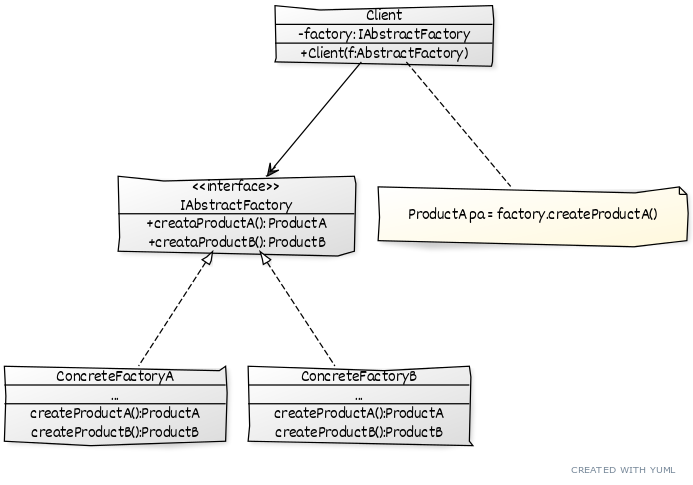
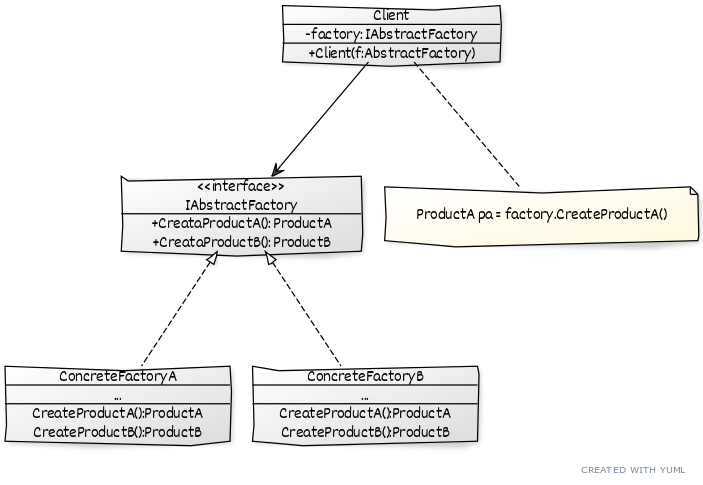
Rozwinieto rozdzial poswiecony wzorcom kreacyjnym.
commit e98ff40fe3f206160289f6fec02c2c1c38195009
Author: Jakub Gluszek <j.gluszek@gmail.com>
Date:   Thu Sep 2 19:28:45 2021 +0200

    Poprawiono literowki.

commit f341a25330d88a00d7e9ca7e16d2e02c0e7ce177
Author: Jakub Gluszek <j.gluszek@gmail.com>
Date:   Tue Aug 10 17:14:22 2021 +0200

    Dodano zadania do wykonania dla wzorca fabryki abstrakcyjnej i budowniczego.

commit a253da0dc4687832622722c0ccfa37ff2d7bc8cb
Author: Jakub Gluszek <j.gluszek@gmail.com>
Date:   Sat Aug 7 17:32:23 2021 +0200

    Dodano przyklad implementacji wzorca Builder.

diff --git a/tex/Lab2.tex b/tex/Lab2.tex
@@ -1,14 +1,14 @@
 \section{Wzorce projektowe (1) - konstrukcyjne}
-\url{https://softwareengineering.stackexchange.com/questions/365119/is-using-new-in-the-constructor-always-bad}
 Wzorce kreacyjne pozwalają na tworzenie obiektów w sposób zwiększający elastyczność. Zamiast tworzyć obiekty w wielu miejscach w programie, zadaniem konstrukcji nowych instancji można obciążyć osobne klasy. Użycie słowa kluczowego \texttt{new} narusza omawianą wcześniej zasadę odwracania zależności, powodując trudności z testowaniem kodu i zmniejszając jego elastyczność. 
+%\url{https://softwareengineering.stackexchange.com/questions/365119/is-using-new-in-the-constructor-always-bad}
 
 \subsection{Fabryka abstrakcyjna (ang. abstract factory)}
-Fabryka abstrakcyjna jest wzorcem projektowym, który przenosi proces tworzenia obiektów (często ze sobą w jakiś sposób powiązany) do osobnej klasy implementującej interfejs zawierający listę metod tworzących dane obiekty. Co więcej tworzone przez fabryki instancje również powinny posiadać zgodne interfejsy.
+Fabryka abstrakcyjna jest wzorcem projektowym, który przenosi proces tworzenia obiektów (często ze sobą w jakiś sposób powiązany) do osobnej klasy implementującej interfejs zawierający metody tworzące dane obiekty. Tworzone przez fabryki instancje powinny posiadać zgodne interfejsy.
 
 Klient może posiadać konstruktor, który jako parametr przyjmie obiekt implementujący interfejs abstrakcyjny. Wewnątrz konstruktora klient wywołując odpowiednie metody może tworzyć konkretne obiekty bez znajomości ich szczegółowej implementacji. Przekazując inny obiekt fabryki abstrakcyjnej możliwa jest łatwa zmiana wykorzystywanych przez klienta obiektów.  
 
 Przykład:
-Aplikacja wykorzystująca interfejs graficzny mogłaby przyjmować jako argument obiekty fabryki implementujące interfejs \texttt{IGuiFactory}. Interfejs ten mógłby definiować metody tworzenia poszczególnych elementów graficznych np. \texttt{createButton()}, \texttt{createListBox()}, \texttt{createProgressBar()} itp. Następnie w zależności od systemu operacyjnego można by stworzyć obiekty fabryk \texttt{WindowsFactory} oraz \texttt{UnixFactory}, oba implementujące określony wcześniej interfejs. Aplikacja posiadające logikę rysująca okno użytkownika nie musi w takim przypadku nawet wiedzieć z jakim systemem ma do czynienia, jest od niego niezależna. Może wywoływać metody tworzące kontrolki UI za pomocą abstrakcyjnego interfejsu \texttt{IGuiFactory}. Wybór konkretnej fabryki mógłby być określany w momencie uruchamiania się aplikacji.
+Aplikacja wykorzystująca interfejs graficzny mogłaby przyjmować jako argument obiekty fabryki implementujące interfejs \texttt{IGuiFactory}. Interfejs ten mógłby definiować metody tworzenia poszczególnych elementów graficznych np. \texttt{CreateButton()}, \texttt{CreateListBox()}, \texttt{CreateProgressBar()} itp. Następnie w zależności od systemu operacyjnego można by stworzyć obiekty fabryk \texttt{WindowsFactory} oraz \texttt{UnixFactory}, oba implementujące określony wcześniej interfejs. Aplikacja posiadające logikę rysująca okno użytkownika nie musi w takim przypadku nawet wiedzieć z jakim systemem ma do czynienia, jest od niego niezależna. Może wywoływać metody tworzące kontrolki UI za pomocą abstrakcyjnego interfejsu \texttt{IGuiFactory}. Wybór konkretnej fabryki mógłby być określany w momencie uruchamiania się aplikacji.
 
 
 
@@ -19,24 +19,114 @@ Aplikacja wykorzystująca interfejs graficzny mogłaby przyjmować jako argument
 	\label{lab2/fig/AbstractFactoryUml}
 \end{figure}
 %[Client]->[IAbstractFactory]
-%[Client]-[note: ProductA pa = factory.createProductA(){bg:cornsilk}]
+%[Client]-[note: ProductA pa = factory.CreateProductA(){bg:cornsilk}]
 %[IAbstractFactory]^-.-[ConcreteFactoryA]
 %[IAbstractFactory]^-.-[ConcreteFactoryB]
 %
-%[≪interface≫;IAbstractFactory|+creataProductA(): ProductA;+creataProductB(): ProductB;]
+%[≪interface≫;IAbstractFactory|+CreataProductA(): ProductA;+CreataProductB(): ProductB;]
 %[Client|-factory: IAbstractFactory|+Client(f:AbstractFactory);]
-%[ConcreteFactoryA|...|createProductA():ProductA;createProductB():ProductB]
-%[ConcreteFactoryB|...|createProductA():ProductA;createProductB():ProductB]
+%[ConcreteFactoryA|...|CreateProductA():ProductA;CreateProductB():ProductB]
+%[ConcreteFactoryB|...|CreateProductA():ProductA;CreateProductB():ProductB]
 
+%//TODO: https://github.com/ninject/Ninject.Extensions.Factory vs https://docs.autofac.org/en/latest/advanced/delegate-factories.html
+
+\subsubsection{Zadanie 1}
+
+Utwórz nowy projekt aplikacji konsolowej .NET 5.0. W osobnych plikach stwórz trzy interfejsy: \texttt{IButton}, \texttt{ICheckbox} oraz \texttt{IGuiFactory}. Pierwsze dwa niech posiadają jedną metodę \texttt{void Draw()}, natomiast interfejs fabryki dwie metody:\texttt{IButton CreateButton()} oraz \texttt{ICheckbox CreateCheckBox()}.
+
+Umieść w projekcie dwa foldery \texttt{Macintosh} oraz \texttt{Windows}. Wewnątrz tych folderów dodaj implementacje stworzonych przed chwilą interfejsów. Metodę \texttt{Draw} zaimplementuj tak, aby wypisywała na ekranie konsoli komunikat symulujący, że kontrolka została narysowana np.:
+\begin{lstlisting}
+internal class MacButton : IButton
+{
+	public void Draw() => Console.WriteLine("Macintosh button has been drawn");
+}
+\end{lstlisting}
+
+%Tip: Ustawiając kursor na nazwę interfejsu i klikając Alt+Enter możesz uruchomić narzędzie refaktoryzacyjne i wybrać opcję \texttt{Implement interface}. Visual Studio automatycznie doda do klasy metody wymagające implementacji.
+
+Po napisaniu analogicznych metod dla pozostałych kontrolek, utwórz po jednej klasie fabryki w każdym z folderów. Klasa fabryki powinna zwracać instancję klasy odpowiadającej danej kontrolce np.:
+\begin{lstlisting}
+public class MacFactory : IGuiFactory
+{
+	public IButton CreateButton() => new MacButton();
+	public ICheckbox CreateCheckBox() => new MacCheckbox();
+}
+\end{lstlisting}
+
+
+Teraz w katalogu głównym utwórz klasę \texttt{UserInterface}, która będzie posiadała prywatne pole typu \texttt{IGuiFactory}. Przekaż do obiektu instancję klasy \texttt{IGuiFactory} i przypisz ją do utworzonego przed chwilą prywatnego pola. Napisz metodę \texttt{DrawWindow}, w której pobierzesz w fabryki instancję klas implementujących \texttt{IButton} oraz \texttt{ICheckbox} i wywołasz metodę \texttt{Draw} dla każdego z nich.
+
+W metodzie \texttt{Main} sprawdź działanie wzorca fabryki abstrakcyjnej:
+\begin{lstlisting}
+class Program
+{
+	static void Main(string[] args)
+	{
+		// Based on configuration file one can choose the specific factory over another one
+		var factoryA = new MacFactory();
+		var factoryB = new WinFactory();
+		
+		var uiA = new UserInterface(factoryA);
+		uiA.DrawWindow();
+		
+		var uiB = new UserInterface(factoryB);
+		uiB.DrawWindow();
+	}
+}
+\end{lstlisting}
+
+\subsubsection{Inne wzorce fabryk}
+%https://refactoring.guru/design-patterns/factory-comparison
+Fabryka jest ogólnym terminem, który jest używany w stosunku do metod i klas, które tworzą obiekty. Podczas laboratoriów został omówiony wzorzec fabryki abstrakcyjnej, który służy do tworzenia całych rodzin podobnych albo powiązanych ze sobą obiektów bez precyzowania konkretnych klas. Jeśli jednak program nie wymaga tworzenia takich rodzin najprawdopodobniej fabryka abstrakcyjna nie jest konieczna. 
+
+Inną prostą fabryką może być klasa, która posiada metodę wytwórczą, z wyrażeniem \texttt{switch-case} które analizuje przekazywany do niej parametr i tworzy odpowiednią instancję konkretnej klasy. Często jest to pojedyncza metoda w pojedynczej klasie. Z czasem kiedy liczba tworzonych obiektów rośnie może ona się przekształcić z metodę fabrykującą. 
+%\begin{lstlisting}
+%class UserFactory {
+%	public static function create($type) {
+%		switch ($type) {
+%			case 'user': return new User();
+%			case 'customer': return new Customer();
+%			case 'admin': return new Admin();
+%			default:
+%			throw new Exception('Wrong user type passed.');
+%		}
+%	}
+%}
+%\end{lstlisting}
+
+Metoda fabrykująca udostępnia interfejs do tworzenia obiektów, ale pozwala klasom pochodnym zmienić typ tworzonego obiektu. W klasie bazowej umieszczona jest pewna funkcjonalność, do klas pochodnych jest przeniesiony jedynie proces tworzenia obiektów. Jest to szczególny przypadek metody szablonowej.
+%\begin{lstlisting}
+%abstract class Department {
+%	public abstract function createEmployee($id);
+%	
+%	public function fire($id) {
+%		$employee = $this->createEmployee($id);
+%		$employee->paySalary();
+%		$employee->dismiss();
+%	}
+%}
+%
+%class ITDepartment extends Department {
+%	public function createEmployee($id) {
+%		return new Programmer($id);
+%	}
+%}
+%
+%class AccountingDepartment extends Department {
+%	public function createEmployee($id) {
+%		return new Accountant($id);
+%	}
+%}	
+%\end{lstlisting}
 
 \subsection{Budowniczny (ang. builder)}
-Budowniczy jest wzorcem, który może być wykorzystany do tworzenia złożonego obiektu krok po kroku. Czasami istnieje pokusa stworzenia konstruktora przyjmującego dużą liczbę argumentów np. dana klasa korzysta z wielu zależności albo niektóre jej cechy mogą być parametryzowane. Część z tych argumentów może w ogóle nie być konieczna. Budowniczy przenosi proces tworzenia takiej instancji do osobnego obiektu. 
+Budowniczy jest wzorcem, który może być wykorzystany do tworzenia złożonego obiektu krok po kroku. Czasami istnieje pokusa stworzenia konstruktora przyjmującego dużą liczbę argumentów np. dana klasa korzysta z wielu zależności albo niektóre jej cechy mogą być parametryzowane. Część z tych argumentów może być opcjonalna. Budowniczy przenosi proces tworzenia takiej instancji do osobnego obiektu. 
 
-Czynności wywoływania poszczególnych metod można przenieść do osobnego obiektu kierownika (ang. director), który będzie przyjmował jako argument konstruktora obiekt budowniczego i wywoływał metody interfejsu \texttt{IBuilder}.
+Czynności wywoływania poszczególnych metod można przenieść do obiektu kierownika (ang. director), który będzie przyjmował jako argument konstruktora obiekt budowniczego i wywoływał metody interfejsu \texttt{IBuilder}. Obiekt kierownika jest opcjonalny, klient może samemu tworzyć instancję budowanego typu. 
 
 Konkretni budowniczowie powinni dostarczyć swoje własne metody zwracania wyników procesu budowania obiektu. Różni budowniczowie mogą zwracać zupełnie inne typy dlatego tego procesu często nie da się umieścić w interfejsie \texttt{IBuilder} (przynajmniej w przypadku języków programowania, które są silnie typowane). 
  
-Wzorzec budowniczy często wspiera tzw. płynne interfejsy (ang. Fluent Interface). Z przykładem użycia tego mechanizmu można się spotkać w zapytaniach LINQ, gdzie zamiast wywoływać kolejne metody progresywnie (w kolejnych wierszach), można je wywoływać kaskadowo po kropce.
+Wzorzec budowniczy często wykorzystuje tzw. płynne interfejsy (ang. Fluent Interface). Polega on na łańcuchowym połączeniu metod. Pozwala na zwiększenie czytelności kodu. Kaskadowe połączenie metod realizuje się zwracając w metodzie instancję własnej klasy za pomocą słowa kluczowego \texttt{this}. Z przykładem użycia tego mechanizmu można się spotkać w zapytaniach LINQ\ref{lab2/lst/fluentInterfaceLinq}, gdzie zamiast wywoływać kolejne metody progresywnie (w kolejnych wierszach), można je wywoływać kaskadowo po symbolu kropki. 
 
 \begin{lstlisting}[caption={Wykorzystanie płynnych interfejsów w zapytania LINQ}, label={lab2/lst/fluentInterfaceLinq}]
 var translations = new Dictionary<string, string>
@@ -50,14 +140,156 @@ var translations = new Dictionary<string, string>
 // Find translations for English words containing the letter "a",
 // sorted by length and displayed in uppercase
 IEnumerable<string> query = translations
-.Where   (t => t.Key.Contains("a"))
-.OrderBy (t => t.Value.Length)
-.Select  (t => t.Value.ToUpper());
+.Where(t => t.Key.Contains("a"))
+.OrderBy(t => t.Value.Length)
+.Select(t => t.Value.ToUpper());
 
 // The same query constructed progressively:
-var filtered   = translations.Where (t => t.Key.Contains("a"));
-var sorted     = filtered.OrderBy   (t => t.Value.Length);
-var finalQuery = sorted.Select      (t => t.Value.ToUpper());
+var filtered = translations.Where(t => t.Key.Contains("a"));
+var sorted  = filtered.OrderBy(t => t.Value.Length);
+var finalQuery = sorted.Select(t => t.Value.ToUpper());
 \end{lstlisting}
 
-W przeciwieństwie do wzorca fabryki abstrakcyjnej, która tworzy obiekty (często ze sobą powiązane) w jednym kroku, budowniczy tworzy jeden złożony obiekt krok po kroku.
+W przeciwieństwie do wzorca fabryki abstrakcyjnej, która tworzy obiekty (często ze sobą powiązane) w~jednym kroku, budowniczy tworzy jeden złożony obiekt krok po kroku.
+
+W klasie \texttt{Car} dodaj właściwości ze słowem kluczowym \texttt{init}\ref{lab2/lst/immutableProperties}. Słowo kluczowe \texttt{init} pojawiło się w C\# 9.0 i stanowi ułatwienie w tworzeniu obiektów niemutowalnych (niezmiennych). Wcześniej konieczne było wykorzystywanie słowa kluczowego \texttt{readonly} i tworzenie obszernych konstruktorów.
+\begin{lstlisting}[caption={Inicjalizacja obiektu klasy \texttt{Car} ze niemutowalnymi właściwościami}, label={lab2/lst/immutableProperties}]
+public string Manual { get; init;}
+public string Engine { get; init; }
+public string Seats { get; init; }
+public string TripComputer { get; init; }
+public string Gps { get; init; }
+\end{lstlisting}
+Ponieważ w przypadku chęci utworzenia nowego obiektu, który będzie np. posiadał inna wartość tylko jednej właściwości konieczne jest tworzenie nowego obiektu i ponowne przypisanie za pomoc listy inicjalizacji wszystkich właściwości pojawiły się w C\# również rekordy. Wykorzystując rekordy można przy przypisywaniu rekordu do innego rekordu użyć słowa kluczowego \texttt{with} i zmienić tylko tę jedną właściwość na której nam zależy, reszta zostanie automatycznie przepisana. Dodatkowo w przypadku rekordów porównywanie dwóch obiektów przebiega pole po polu. Kompilator automatycznie tworzy konstruktor kopiujący. Rekord wraz z~konstruktorem oraz destruktorem tworzy się za pomocą poniższego zapisu:
+\begin{lstlisting}
+public record Friend(string FirstName,string MiddleName, string LastName);
+\end{lstlisting}
+Obiekt typu \texttt{Friend} będzie posiadał właściwości takie jak argumenty rekordu.
+Przykład stosowanie rekordów:
+\begin{lstlisting}
+using System;
+namespace RecordsVS
+{
+	public record Friend
+	{
+		public string FirstName { get; init; }
+		public string MiddleName { get; init; }   
+		public string LastName { get; init; }        
+	}
+	public record SuperFriend : Friend
+	{
+		public bool IsBestFriend { get; init; }
+	}
+	class Program
+	{
+		static void Main(string[] args)
+		{
+			var friendA = new Friend()
+			{
+				FirstName = "Chandler",
+				MiddleName = "Miruel",
+				LastName = "Bing"
+			};
+			var friendB = friendA with {LastName = "Geller"};
+			var friendC = friendB;
+			var superFriendA = new SuperFriend()
+			{
+				FirstName = "Ross",
+				LastName = "Geller",
+				IsBestFriend = true,
+			};
+			Friend friendD = superFriendA;
+			Console.WriteLine(friendB); //Friend { FirstName = Chandler, MiddleName = Miruel, LastName = Geller }
+			Console.WriteLine(friendA == friendB); //not equal
+			Console.WriteLine(friendB == friendC); //equal
+			
+			System.Console.WriteLine(friendD == superFriendA);//true
+		}
+	}
+}
+\end{lstlisting}
+
+\subsubsection{Zadanie 1}
+Utwórz klasę o nazwie \texttt{Car}, która będzie posiadała następujące właściwości typu \texttt{string} tylko do odczytu:
+\begin{itemize}
+	\item Manual,
+	\item Engine,
+	\item Seats,
+	\item TripComputer,
+	\item Gps.
+\end{itemize}
+Użyj słowa kluczowego \texttt{init} zamiast settera.
+
+Zdefiniuj konstruktor jako prywatny:
+\begin{lstlisting}
+private Car() { }
+\end{lstlisting}
+
+W osobnym pliku utwórz interfejs \texttt{ICarBuilder}, który będzie posiadał następujące metody nie zwracające żadnego obiektu:
+\begin{itemize}
+	\item Reset(),
+	\item SetEngine(),
+	\item SetSeats(),
+	\item SetTripComputer(),
+	\item SetGps().
+\end{itemize}
+
+Wewnątrz klasy \texttt{Car}, zdefiniuj klasę \texttt{CarBuilder} implementującą interfejs \texttt{ICarBuilder}. Zwróć uwagę, że klasa ta ma dostęp do prywatnych składowych klas (w tym konstruktora). Utworzenie instancji tej klasy będzie możliwe jedynie przez klasę budowniczego. W \texttt{CarBuilder} utwórz prywatne pola typu \texttt{string}: \texttt{seats}, \texttt{engine}, \texttt{tripComputer} oraz \texttt{gps}.
+
+Zaimplementuj interfejs \texttt{ICarBuilder}. W każdej metodzie ustawiającej pewny element samochodu, przypisz do odpowiedniego prywatnego pola łańcuch znaków pozwalający na identyfikację danego elementu np.:
+\begin{lstlisting}
+public class CarBuilder : ICarBuilder
+{
+	private string seats;
+	//...
+	
+	public void SetSeats() => this.seats = "Four fancy seats";
+	//...		
+}
+\end{lstlisting}
+
+Do klasy \texttt{CarBuilder} dodaj metodę \texttt{Build} zwracającą typ \texttt{Car}. Utwórz w niej instancję klasy \texttt{Car}, przypisz do jej właściwości ustawione wcześniej wartości prywatnych pól np.:
+\begin{lstlisting}
+public Car Build()
+{
+	var car = new Car()
+	{
+		Engine = this.engine,
+		//...
+	};
+	
+	//...
+}
+\end{lstlisting}
+
+W metodzie \texttt{Main} utwórz instancję klasy \texttt{Car} korzystając z budowniczego. Aby to zrobić utwórz obiekt \texttt{CarBuilder}, następnie wywołaj metody ustawiające poszczególne właściwości (nie jest konieczne wywoływanie ich wszystkich) i utwórz obiekt za pomocą metody \texttt{Build}. Sprawdź czy utworzona instancja typu \texttt{Car} zawiera prawidłowe wartości jej właściwości, wypisując je na ekranie konsoli. Możesz również przeciążyć metodę \texttt{ToString} tak, aby wypisywała te dane.
+
+Utwórz klasę kierownika \texttt{Director}. Niech posiada ona prywatne pole typu \texttt{ICarBuilder} oraz właściwość \texttt{set}:
+\begin{lstlisting}
+private ICarBuilder _builder;
+public ICarBuilder Builder { set { _builder = value; } }
+\end{lstlisting}
+Dodatkowo umieść w niej dwie metody typu \texttt{void}: \texttt{BuildMinimalViableProduct} oraz \texttt{BuildFullFeaturedProduct}. W pierwszej wywołaj dwie z dostępnych metod tworzenia obiektu przez budowniczego, w drugim wszystkie.
+
+Z poziomu metody \texttt{Main} utwórz obiekt \texttt{CarBuilder} oraz \texttt{Director} i przypisz kierownikowi obiekt budowniczego. Następnie wywołaj jedną z dostępnych metod kierownika. Na koniec pobierz ,,zbudowany'' obiekt za pomocą metody \texttt{Build} klasy \texttt{CarBuilder}. Sprawdź utworzone elementy obiektu \texttt{Car}.
+
+\subsubsection{Zadanie 2}
+Wewnątrz klasy \texttt{Car} utwórz drugiego budowniczego. Tym razem do implementacji wykorzystaj tzw. płynne interfejsy. Jedyną różnicą względem poprzedniej implementacji będzie fakt, że tym razem metody ustawiające wartości prywatnym polom (budującym obiekt), będą zwracały instancję klasy budowniczego. Konieczne jest skorzystanie ze słowa kluczowego \texttt{this} zwracającego instancję kasy:
+\begin{lstlisting}
+public CarBuilderFluent SetSeats()
+{
+	this.seats = "Four fancy seats";
+	return this;
+}
+\end{lstlisting}
+
+Sprawdź działanie drugiej wersji wzorca projektowego Budowniczy. Tym razem kolejne metody można wywoływać z wykorzystaniem symbolu kropki.
+\begin{lstlisting}
+// Builder with a fluent interface
+var builderFluent = new Car.CarBuilderFluent();
+var carFluent = builderFluent.SetEngine()
+	.SetGPS()
+	.SetSeats()
+	.SetTripComputer()
+	.Build();
+\end{lstlisting}
